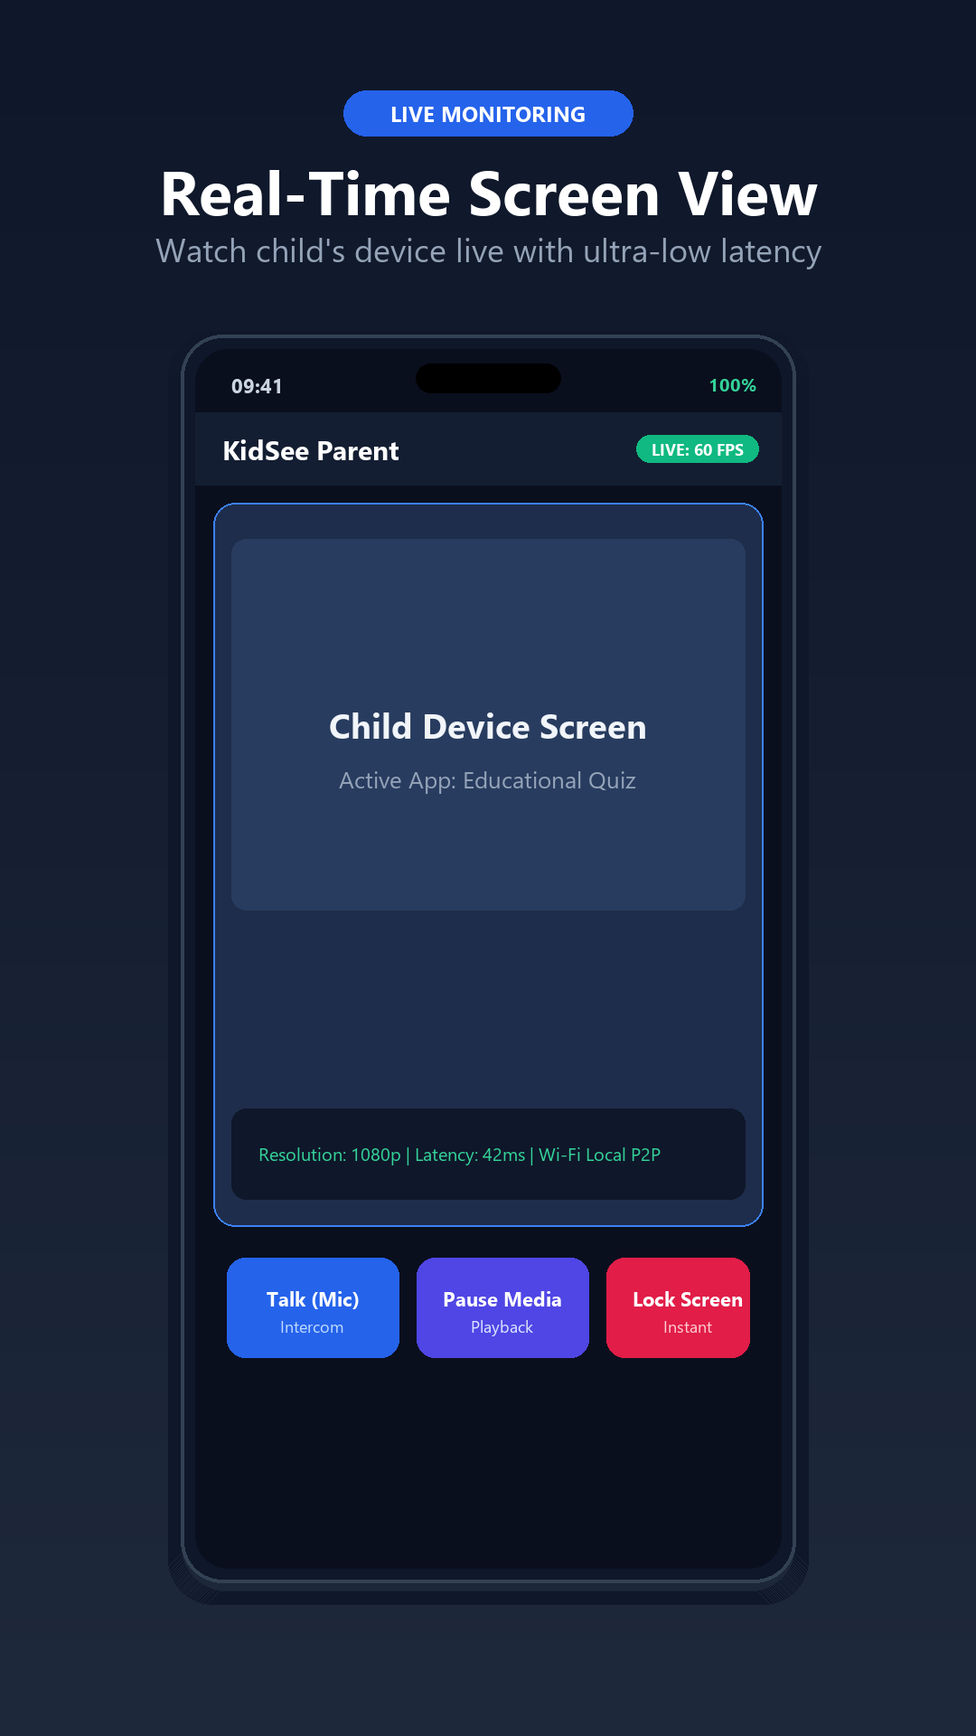
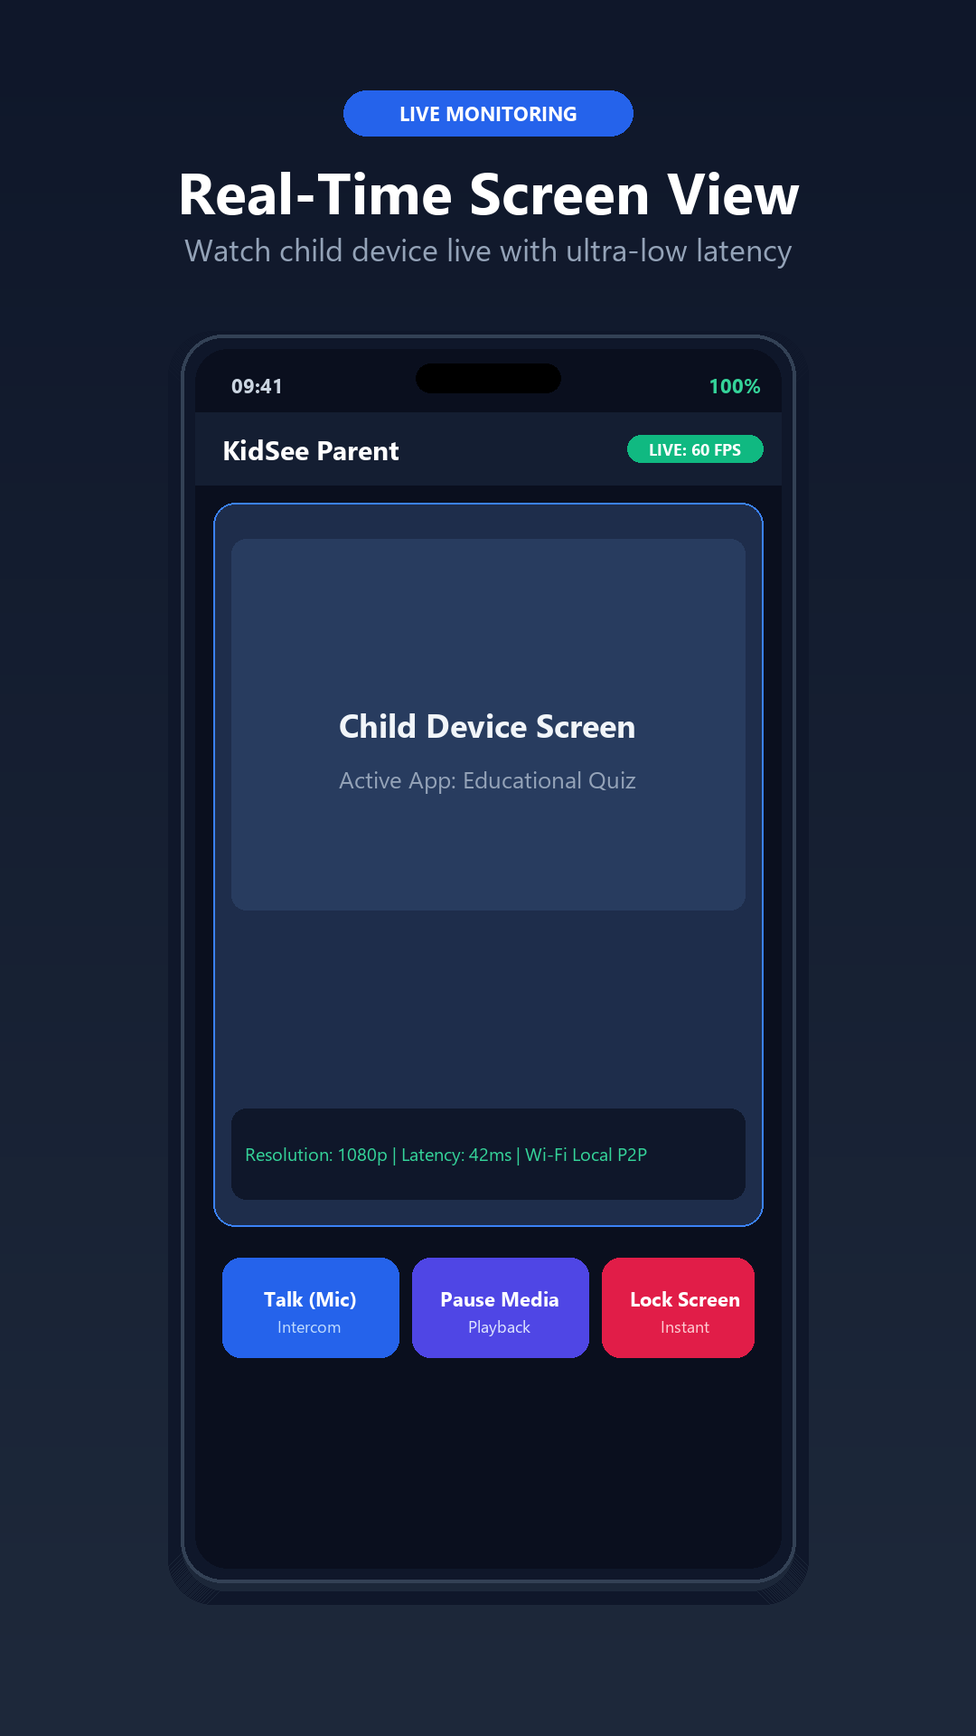
Add localized EN and RU feature graphics and screenshots

diff --git a/scripts/generate_all_store_assets.py b/scripts/generate_all_store_assets.py
@@ -1,0 +1,378 @@
+import os
+from PIL import Image, ImageDraw, ImageFont
+
+BASE_DIR = r"C:\WORK\KidSee\google_play_assets"
+EN_DIR = os.path.join(BASE_DIR, "en")
+RU_DIR = os.path.join(BASE_DIR, "ru")
+os.makedirs(EN_DIR, exist_ok=True)
+os.makedirs(RU_DIR, exist_ok=True)
+
+FONT_BOLD = r"C:\Windows\Fonts\segoeuib.ttf"
+FONT_REGULAR = r"C:\Windows\Fonts\segoeui.ttf"
+
+# ==================== 1. GENERATE ICON (512x512) ====================
+def generate_icon():
+    img_icon = Image.new('RGBA', (512, 512), (0, 0, 0, 0))
+    draw = ImageDraw.Draw(img_icon)
+    draw.ellipse([16, 16, 496, 496], fill=(51, 153, 255, 255))
+    # Wheels
+    draw.ellipse([130, 360, 205, 435], fill=(34, 38, 42, 255))
+    draw.ellipse([152, 382, 183, 413], fill=(255, 255, 255, 255))
+    draw.ellipse([307, 360, 382, 435], fill=(34, 38, 42, 255))
+    draw.ellipse([329, 382, 360, 413], fill=(255, 255, 255, 255))
+    # Body
+    draw.rounded_rectangle([96, 96, 416, 384], radius=110, fill=(255, 255, 255, 255))
+    # Visor
+    draw.rounded_rectangle([126, 126, 386, 276], radius=70, fill=(51, 153, 255, 255))
+    # Pupil
+    draw.ellipse([206, 151, 306, 251], fill=(22, 25, 29, 255))
+    draw.ellipse([225, 170, 255, 200], fill=(255, 255, 255, 255))
+    # Smile
+    draw.arc([200, 290, 312, 345], start=10, end=170, fill=(51, 153, 255, 255), width=12)
+    
+    icon_path = os.path.join(BASE_DIR, "icon_512.png")
+    img_icon.save(icon_path, 'PNG')
+    return img_icon
+
+# ==================== 2. FEATURE GRAPHIC (1024x500) ====================
+def generate_feature_graphic(icon_img, lang="en", out_path=""):
+    img = Image.new('RGB', (1024, 500), (246, 248, 252))
+    draw = ImageDraw.Draw(img)
+    
+    # Soft background gradient
+    for x in range(1024):
+        factor = x / 1024.0
+        r = int(240 * (1 - factor) + 215 * factor)
+        g = int(245 * (1 - factor) + 230 * factor)
+        b = int(255 * (1 - factor) + 252 * factor)
+        draw.line([(x, 0), (x, 500)], fill=(r, g, b))
+        
+    # Decorative circles
+    draw.ellipse([640, -60, 1140, 440], fill=(225, 240, 255))
+    draw.ellipse([730, 90, 1070, 430], fill=(200, 228, 255))
+    
+    # Mascot
+    mascot_small = icon_img.resize((320, 320), Image.Resampling.LANCZOS)
+    img.paste(mascot_small, (650, 90), mascot_small)
+    
+    font_large = ImageFont.truetype(FONT_BOLD, 64)
+    font_sub = ImageFont.truetype(FONT_REGULAR, 25)
+    font_sub_bold = ImageFont.truetype(FONT_BOLD, 25)
+    font_tag = ImageFont.truetype(FONT_BOLD, 17)
+    
+    if lang == "en":
+        tag_text = "PARENTAL CONTROL"
+        bullets = [
+            "• Live child screen streaming (up to 60 FPS)",
+            "• Remote media playback & volume control",
+            "• Instant audio intercom & screen lock",
+            "• 100% private: direct local Wi-Fi (no cloud)"
+        ]
+        tag_w = 260
+    else:
+        tag_text = "РОДИТЕЛЬСКИЙ КОНТРОЛЬ"
+        bullets = [
+            "• Живая трансляция экрана ребёнка (до 60 FPS)",
+            "• Удалённое управление медиа и звуком",
+            "• Мгновенная рация и блокировка экрана",
+            "• 100% приватность: прямое Wi-Fi подключение"
+        ]
+        tag_w = 320
+        
+    draw.rounded_rectangle([70, 75, 70 + tag_w, 115], radius=16, fill=(37, 99, 235))
+    draw.text((70 + tag_w // 2, 95), tag_text, fill=(255, 255, 255), font=font_tag, anchor="mm")
+    
+    draw.text((70, 140), "KidSee", fill=(15, 23, 42), font=font_large)
+    
+    y = 235
+    for i, b in enumerate(bullets):
+        fnt = font_sub_bold if i == 3 else font_sub
+        clr = (13, 148, 136) if i == 3 else (51, 65, 85)
+        draw.text((70, y), b, fill=clr, font=fnt)
+        y += 42
+        
+    img.save(out_path, 'PNG')
+    print(f"Generated feature graphic: {out_path}")
+
+# ==================== 3. PHONE SCREENSHOTS (1080x1920) ====================
+def create_gradient(w, h, top_color, bottom_color):
+    base = Image.new("RGB", (w, h), top_color)
+    top_r, top_g, top_b = top_color
+    bot_r, bot_g, bot_b = bottom_color
+    for y in range(h):
+        factor = y / float(h)
+        r = int(top_r + (bot_r - top_r) * factor)
+        g = int(top_g + (bot_g - top_g) * factor)
+        b = int(top_b + (bot_b - top_b) * factor)
+        draw = ImageDraw.Draw(base)
+        draw.line([(0, y), (w, y)], fill=(r, g, b))
+    return base
+
+def draw_phone_mockup(canvas, x, y, w, h, content_drawer):
+    draw = ImageDraw.Draw(canvas)
+    for i in range(15):
+        draw.rounded_rectangle([x - i, y - i + 10, x + w + i, y + h + i + 10], radius=50, outline=(15, 23, 42))
+    draw.rounded_rectangle([x, y, x + w, y + h], radius=46, fill=(15, 23, 42), outline=(51, 65, 85), width=4)
+    screen_padding = 16
+    sx = x + screen_padding
+    sy = y + screen_padding
+    sw = w - 2 * screen_padding
+    sh = h - 2 * screen_padding
+    draw.rounded_rectangle([sx, sy, sx + sw, sy + sh], radius=36, fill=(10, 15, 30))
+    # Notch
+    notch_w = 160
+    notch_h = 32
+    nx = sx + (sw - notch_w) // 2
+    ny = sy + 16
+    draw.rounded_rectangle([nx, ny, nx + notch_w, ny + notch_h], radius=16, fill=(0, 0, 0))
+    content_drawer(canvas, sx, sy, sw, sh)
+
+def generate_screenshots(lang="en", target_dir=""):
+    W, H = 1080, 1920
+    phone_w, phone_h = 680, 1380
+    px = (W - phone_w) // 2
+    py = 370
+    
+    font_title = ImageFont.truetype(FONT_BOLD, 64)
+    font_subtitle = ImageFont.truetype(FONT_REGULAR, 34)
+    font_tag = ImageFont.truetype(FONT_BOLD, 22)
+    font_clock = ImageFont.truetype(FONT_BOLD, 22)
+    font_card_t = ImageFont.truetype(FONT_BOLD, 30)
+    font_badge = ImageFont.truetype(FONT_BOLD, 18)
+    
+    # ------------------ S1: LIVE SCREEN ------------------
+    img1 = create_gradient(W, H, (15, 23, 42), (30, 41, 59))
+    d1 = ImageDraw.Draw(img1)
+    
+    if lang == "en":
+        t_tag, t_main, t_sub = "LIVE MONITORING", "Real-Time Screen View", "Watch child device live with ultra-low latency"
+        app_bar, live_bdg = "KidSee Parent", "LIVE: 60 FPS"
+        scr_t, scr_sub = "Child Device Screen", "Active App: Educational Quiz"
+        stat_t = "Resolution: 1080p | Latency: 42ms | Wi-Fi Local P2P"
+        btn1_t, btn1_s = "Talk (Mic)", "Intercom"
+        btn2_t, btn2_s = "Pause Media", "Playback"
+        btn3_t, btn3_s = "Lock Screen", "Instant"
+        tag_w = 320
+    else:
+        t_tag, t_main, t_sub = "ПРЯМАЯ ТРАНСЛЯЦИЯ", "Просмотр экрана онлайн", "Наблюдайте за экраном ребёнка в 60 FPS"
+        app_bar, live_bdg = "KidSee Родитель", "ОНЛАЙН: 60 FPS"
+        scr_t, scr_sub = "Экран устройства ребёнка", "Активно: Обучающие уроки"
+        stat_t = "Разрешение: 1080p | Задержка: 42мс | Wi-Fi P2P"
+        btn1_t, btn1_s = "Рация", "Голос"
+        btn2_t, btn2_s = "Пауза", "Медиа"
+        btn3_t, btn3_s = "Блок", "Экран"
+        tag_w = 360
+
+    d1.rounded_rectangle([W//2 - tag_w//2, 100, W//2 + tag_w//2, 150], radius=25, fill=(37, 99, 235))
+    d1.text((W//2, 125), t_tag, font=font_tag, fill=(255, 255, 255), anchor="mm")
+    d1.text((W//2, 210), t_main, font=font_title, fill=(255, 255, 255), anchor="mm")
+    d1.text((W//2, 275), t_sub, font=font_subtitle, fill=(148, 163, 184), anchor="mm")
+    
+    def content_1(cv, sx, sy, sw, sh):
+        cdraw = ImageDraw.Draw(cv)
+        cdraw.text((sx + 40, sy + 25), "09:41", font=font_clock, fill=(203, 213, 225))
+        cdraw.text((sx + sw - 80, sy + 25), "100%", font=font_clock, fill=(52, 211, 153))
+        cdraw.rectangle([sx, sy + 70, sx + sw, sy + 150], fill=(20, 30, 50))
+        cdraw.text((sx + 30, sy + 110), app_bar, font=font_card_t, fill=(255, 255, 255), anchor="lm")
+        cdraw.rounded_rectangle([sx + sw - 170, sy + 95, sx + sw - 20, sy + 125], radius=15, fill=(16, 185, 129))
+        cdraw.text((sx + sw - 95, sy + 110), live_bdg, font=font_badge, fill=(255, 255, 255), anchor="mm")
+        
+        stream_y = sy + 170
+        stream_h = 800
+        cdraw.rounded_rectangle([sx + 20, stream_y, sx + sw - 20, stream_y + stream_h], radius=24, fill=(30, 45, 75), outline=(59, 130, 246), width=2)
+        cdraw.rounded_rectangle([sx + 40, stream_y + 40, sx + sw - 40, stream_y + 450], radius=16, fill=(40, 60, 95))
+        cdraw.text((sx + sw//2, stream_y + 245), scr_t, font=ImageFont.truetype(FONT_BOLD, 36), fill=(241, 245, 249), anchor="mm")
+        cdraw.text((sx + sw//2, stream_y + 305), scr_sub, font=ImageFont.truetype(FONT_REGULAR, 26), fill=(148, 163, 184), anchor="mm")
+        
+        cdraw.rounded_rectangle([sx + 40, stream_y + stream_h - 130, sx + sw - 40, stream_y + stream_h - 30], radius=16, fill=(15, 23, 42))
+        cdraw.text((sx + 55, stream_y + stream_h - 80), stat_t, font=ImageFont.truetype(FONT_REGULAR, 20), fill=(52, 211, 153), anchor="lm")
+        
+        btn_y = stream_y + stream_h + 35
+        # 3 action buttons
+        cdraw.rounded_rectangle([sx + 30, btn_y, sx + 225, btn_y + 110], radius=20, fill=(37, 99, 235))
+        cdraw.text((sx + 127, btn_y + 45), btn1_t, font=ImageFont.truetype(FONT_BOLD, 22), fill=(255, 255, 255), anchor="mm")
+        cdraw.text((sx + 127, btn_y + 75), btn1_s, font=ImageFont.truetype(FONT_REGULAR, 18), fill=(191, 219, 254), anchor="mm")
+        
+        cdraw.rounded_rectangle([sx + 240, btn_y, sx + 435, btn_y + 110], radius=20, fill=(79, 70, 229))
+        cdraw.text((sx + 337, btn_y + 45), btn2_t, font=ImageFont.truetype(FONT_BOLD, 22), fill=(255, 255, 255), anchor="mm")
+        cdraw.text((sx + 337, btn_y + 75), btn2_s, font=ImageFont.truetype(FONT_REGULAR, 18), fill=(224, 231, 255), anchor="mm")
+        
+        cdraw.rounded_rectangle([sx + 450, btn_y, sx + sw - 30, btn_y + 110], radius=20, fill=(225, 29, 72))
+        cdraw.text((sx + 542, btn_y + 45), btn3_t, font=ImageFont.truetype(FONT_BOLD, 22), fill=(255, 255, 255), anchor="mm")
+        cdraw.text((sx + 542, btn_y + 75), btn3_s, font=ImageFont.truetype(FONT_REGULAR, 18), fill=(254, 205, 211), anchor="mm")
+
+    draw_phone_mockup(img1, px, py, phone_w, phone_h, content_1)
+    img1.save(os.path.join(target_dir, "screenshot_1.png"), "PNG")
+    
+    # ------------------ S2: MEDIA CONTROL ------------------
+    img2 = create_gradient(W, H, (15, 23, 42), (40, 20, 60))
+    d2 = ImageDraw.Draw(img2)
+    
+    if lang == "en":
+        t_tag, t_main, t_sub = "REMOTE CONTROL", "Control Media & Sound", "Remotely pause video, limit volume, or mute audio"
+        card_sub, now_pl, dur_t = "NOW PLAYING ON CHILD DEVICE", "YouTube / Cartoons", "Session Duration: 45 min"
+        pause_btn = "PAUSE VIDEO"
+        vol_t, mute_t = "Device Volume Limit", "Mute All Sound Remotely"
+        tag_w = 320
+    else:
+        t_tag, t_main, t_sub = "УДАЛЕННЫЙ КОНТРОЛЬ", "Управление медиа и звуком", "Ставьте видео на паузу и управляйте громкостью"
+        card_sub, now_pl, dur_t = "СЕЙЧАС ВОСПРОИЗВОДИТСЯ", "YouTube / Мультфильмы", "Длительность: 45 мин"
+        pause_btn = "ПАУЗА ВИДЕО"
+        vol_t, mute_t = "Ограничение громкости", "Отключить весь звук"
+        tag_w = 380
+
+    d2.rounded_rectangle([W//2 - tag_w//2, 100, W//2 + tag_w//2, 150], radius=25, fill=(147, 51, 234))
+    d2.text((W//2, 125), t_tag, font=font_tag, fill=(255, 255, 255), anchor="mm")
+    d2.text((W//2, 210), t_main, font=font_title, fill=(255, 255, 255), anchor="mm")
+    d2.text((W//2, 275), t_sub, font=font_subtitle, fill=(216, 180, 254), anchor="mm")
+    
+    def content_2(cv, sx, sy, sw, sh):
+        cdraw = ImageDraw.Draw(cv)
+        cdraw.text((sx + 40, sy + 25), "09:41", font=font_clock, fill=(203, 213, 225))
+        cdraw.rectangle([sx, sy + 70, sx + sw, sy + 150], fill=(25, 20, 45))
+        cdraw.text((sx + 30, sy + 110), "KidSee Media" if lang == "en" else "KidSee Медиа", font=font_card_t, fill=(255, 255, 255), anchor="lm")
+        
+        card_y = sy + 200
+        cdraw.rounded_rectangle([sx + 30, card_y, sx + sw - 30, card_y + 400], radius=24, fill=(45, 30, 75), outline=(168, 85, 247), width=2)
+        cdraw.text((sx + sw//2, card_y + 60), card_sub, font=ImageFont.truetype(FONT_BOLD, 20), fill=(216, 180, 254), anchor="mm")
+        cdraw.text((sx + sw//2, card_y + 130), now_pl, font=ImageFont.truetype(FONT_BOLD, 36), fill=(255, 255, 255), anchor="mm")
+        cdraw.text((sx + sw//2, card_y + 185), dur_t, font=ImageFont.truetype(FONT_REGULAR, 24), fill=(192, 132, 252), anchor="mm")
+        
+        cdraw.rounded_rectangle([sx + sw//2 - 140, card_y + 250, sx + sw//2 + 140, card_y + 350], radius=30, fill=(168, 85, 247))
+        cdraw.text((sx + sw//2, card_y + 300), pause_btn, font=ImageFont.truetype(FONT_BOLD, 26), fill=(255, 255, 255), anchor="mm")
+        
+        vcard_y = card_y + 430
+        cdraw.rounded_rectangle([sx + 30, vcard_y, sx + sw - 30, vcard_y + 320], radius=24, fill=(35, 25, 60))
+        cdraw.text((sx + 60, vcard_y + 55), vol_t, font=ImageFont.truetype(FONT_BOLD, 26), fill=(255, 255, 255), anchor="lm")
+        cdraw.text((sx + sw - 60, vcard_y + 55), "40%", font=ImageFont.truetype(FONT_BOLD, 26), fill=(168, 85, 247), anchor="rm")
+        
+        cdraw.rounded_rectangle([sx + 60, vcard_y + 110, sx + sw - 60, vcard_y + 130], radius=10, fill=(75, 60, 100))
+        cdraw.rounded_rectangle([sx + 60, vcard_y + 110, sx + 280, vcard_y + 130], radius=10, fill=(168, 85, 247))
+        cdraw.ellipse([sx + 265, vcard_y + 100, sx + 295, vcard_y + 140], fill=(255, 255, 255))
+        
+        cdraw.rounded_rectangle([sx + 60, vcard_y + 180, sx + sw - 60, vcard_y + 270], radius=16, fill=(50, 35, 80))
+        cdraw.text((sx + 90, vcard_y + 225), mute_t, font=ImageFont.truetype(FONT_BOLD, 24), fill=(255, 255, 255), anchor="lm")
+        cdraw.rounded_rectangle([sx + sw - 160, vcard_y + 205, sx + sw - 90, vcard_y + 245], radius=20, fill=(16, 185, 129))
+        cdraw.text((sx + sw - 125, vcard_y + 225), "ВКЛ" if lang == "ru" else "ON", font=ImageFont.truetype(FONT_BOLD, 18), fill=(255, 255, 255), anchor="mm")
+
+    draw_phone_mockup(img2, px, py, phone_w, phone_h, content_2)
+    img2.save(os.path.join(target_dir, "screenshot_2.png"), "PNG")
+
+    # ------------------ S3: INSTANT SCREEN LOCK ------------------
+    img3 = create_gradient(W, H, (15, 23, 42), (50, 20, 25))
+    d3 = ImageDraw.Draw(img3)
+    
+    if lang == "en":
+        t_tag, t_main, t_sub = "FOCUS & SAFETY", "Instant Screen Lock", "Pause distractions for homework, dinner, or bedtime"
+        shld_t, shld_s = "LOCKED", "FOCUS MODE"
+        dev_t, dev_s = "Child Device Is Paused", "Screen interaction disabled by parent"
+        tim_t, unlk_btn = "Lock Duration Remaining", "UNLOCK DEVICE NOW"
+        tag_w = 320
+    else:
+        t_tag, t_main, t_sub = "ФОКУС И ОТДЫХ", "Мгновенная блокировка", "Сделайте паузу для уроков, ужина или сна"
+        shld_t, shld_s = "БЛОКИРОВКА", "РЕЖИМ ФОКУСА"
+        dev_t, dev_s = "Устройство на паузе", "Экран отключён родителем"
+        tim_t, unlk_btn = "Осталось времени", "РАЗБЛОКИРОВАТЬ СЕЙЧАС"
+        tag_w = 340
+
+    d3.rounded_rectangle([W//2 - tag_w//2, 100, W//2 + tag_w//2, 150], radius=25, fill=(225, 29, 72))
+    d3.text((W//2, 125), t_tag, font=font_tag, fill=(255, 255, 255), anchor="mm")
+    d3.text((W//2, 210), t_main, font=font_title, fill=(255, 255, 255), anchor="mm")
+    d3.text((W//2, 275), t_sub, font=font_subtitle, fill=(254, 205, 211), anchor="mm")
+    
+    def content_3(cv, sx, sy, sw, sh):
+        cdraw = ImageDraw.Draw(cv)
+        cdraw.text((sx + 40, sy + 25), "09:41", font=font_clock, fill=(203, 213, 225))
+        cdraw.rectangle([sx, sy + 70, sx + sw, sy + 150], fill=(45, 15, 20))
+        cdraw.text((sx + 30, sy + 110), "KidSee Lock" if lang == "en" else "KidSee Защита", font=font_card_t, fill=(255, 255, 255), anchor="lm")
+        
+        shield_cx = sx + sw // 2
+        shield_cy = sy + 380
+        cdraw.ellipse([shield_cx - 110, shield_cy - 110, shield_cx + 110, shield_cy + 110], fill=(225, 29, 72))
+        cdraw.text((shield_cx, shield_cy - 10), shld_t, font=ImageFont.truetype(FONT_BOLD, 28), fill=(255, 255, 255), anchor="mm")
+        cdraw.text((shield_cx, shield_cy + 30), shld_s, font=ImageFont.truetype(FONT_REGULAR, 20), fill=(254, 205, 211), anchor="mm")
+        
+        cdraw.text((shield_cx, sy + 560), dev_t, font=ImageFont.truetype(FONT_BOLD, 34), fill=(255, 255, 255), anchor="mm")
+        cdraw.text((shield_cx, sy + 610), dev_s, font=ImageFont.truetype(FONT_REGULAR, 24), fill=(244, 63, 94), anchor="mm")
+        
+        cdraw.rounded_rectangle([sx + 50, sy + 680, sx + sw - 50, sy + 820], radius=20, fill=(30, 15, 20), outline=(225, 29, 72), width=1)
+        cdraw.text((shield_cx, sy + 725), tim_t, font=ImageFont.truetype(FONT_REGULAR, 22), fill=(254, 205, 211), anchor="mm")
+        cdraw.text((shield_cx, sy + 775), "24 : 18", font=ImageFont.truetype(FONT_BOLD, 42), fill=(255, 255, 255), anchor="mm")
+        
+        cdraw.rounded_rectangle([sx + 50, sy + 860, sx + sw - 50, sy + 950], radius=20, fill=(16, 185, 129))
+        cdraw.text((shield_cx, sy + 905), unlk_btn, font=ImageFont.truetype(FONT_BOLD, 24), fill=(255, 255, 255), anchor="mm")
+
+    draw_phone_mockup(img3, px, py, phone_w, phone_h, content_3)
+    img3.save(os.path.join(target_dir, "screenshot_3.png"), "PNG")
+
+    # ------------------ S4: LOCAL P2P PRIVACY ------------------
+    img4 = create_gradient(W, H, (15, 23, 42), (10, 40, 45))
+    d4 = ImageDraw.Draw(img4)
+    
+    if lang == "en":
+        t_tag, t_main, t_sub = "PRIVATE & DIRECT", "100% Private Local Wi-Fi", "Direct device-to-device streaming. Zero cloud storage."
+        items = [
+            ("No External Cloud Servers", "Data never leaves your local Wi-Fi router"),
+            ("Direct P2P Encrypted Stream", "Safe and low latency device handshake"),
+            ("No Account Or Login Needed", "Instant connection via local QR code or PIN"),
+            ("Zero Advertising Trackers", "Strictly on-device local telemetry")
+        ]
+        b_tit, b_sub = "GDPR & COPPA Compliant", "Your family data stays completely in your hands"
+        tag_w = 320
+    else:
+        t_tag, t_main, t_sub = "ПРИВАТНОСТЬ И P2P", "100% локальная сеть Wi-Fi", "Прямая передача без внешних облачных серверов"
+        items = [
+            ("Без облачных серверов", "Данные не покидают домашний роутер"),
+            ("Прямое P2P шифрование", "Безопасная передача с минимальным пингом"),
+            ("Без аккаунтов и логинов", "Быстрое подключение по коду или QR"),
+            ("Без сторонней рекламы", "Исключительно локальная работа")
+        ]
+        b_tit, b_sub = "Полная безопасность семьи", "Видеопоток и звук остаются только у вас"
+        tag_w = 360
+
+    d4.rounded_rectangle([W//2 - tag_w//2, 100, W//2 + tag_w//2, 150], radius=25, fill=(13, 148, 136))
+    d4.text((W//2, 125), t_tag, font=font_tag, fill=(255, 255, 255), anchor="mm")
+    d4.text((W//2, 210), t_main, font=font_title, fill=(255, 255, 255), anchor="mm")
+    d4.text((W//2, 275), t_sub, font=font_subtitle, fill=(153, 246, 228), anchor="mm")
+    
+    def content_4(cv, sx, sy, sw, sh):
+        cdraw = ImageDraw.Draw(cv)
+        cdraw.text((sx + 40, sy + 25), "09:41", font=font_clock, fill=(203, 213, 225))
+        cdraw.rectangle([sx, sy + 70, sx + sw, sy + 150], fill=(15, 35, 40))
+        cdraw.text((sx + 30, sy + 110), "KidSee Privacy" if lang == "en" else "KidSee Приватность", font=font_card_t, fill=(255, 255, 255), anchor="lm")
+        
+        y_cursor = sy + 200
+        for title, desc in items:
+            cdraw.rounded_rectangle([sx + 30, y_cursor, sx + sw - 30, y_cursor + 130], radius=18, fill=(20, 45, 50), outline=(20, 184, 166), width=1)
+            cdraw.ellipse([sx + 55, y_cursor + 45, sx + 95, y_cursor + 85], fill=(20, 184, 166))
+            cdraw.text((sx + 75, y_cursor + 65), "V", font=ImageFont.truetype(FONT_BOLD, 20), fill=(255, 255, 255), anchor="mm")
+            
+            cdraw.text((sx + 120, y_cursor + 45), title, font=ImageFont.truetype(FONT_BOLD, 24), fill=(255, 255, 255), anchor="lm")
+            cdraw.text((sx + 120, y_cursor + 85), desc, font=ImageFont.truetype(FONT_REGULAR, 19), fill=(153, 246, 228), anchor="lm")
+            y_cursor += 155
+            
+        cdraw.rounded_rectangle([sx + 30, y_cursor + 30, sx + sw - 30, y_cursor + 180], radius=24, fill=(13, 148, 136))
+        cdraw.text((sx + sw//2, y_cursor + 80), b_tit, font=ImageFont.truetype(FONT_BOLD, 26), fill=(255, 255, 255), anchor="mm")
+        cdraw.text((sx + sw//2, y_cursor + 130), b_sub, font=ImageFont.truetype(FONT_REGULAR, 20), fill=(204, 251, 241), anchor="mm")
+
+    draw_phone_mockup(img4, px, py, phone_w, phone_h, content_4)
+    img4.save(os.path.join(target_dir, "screenshot_4.png"), "PNG")
+    print(f"Generated 4 screenshots for {lang} in {target_dir}")
+
+# EXECUTE ALL
+icon = generate_icon()
+
+# Generate Feature Graphics
+generate_feature_graphic(icon, "en", os.path.join(EN_DIR, "feature_graphic.png"))
+generate_feature_graphic(icon, "ru", os.path.join(RU_DIR, "feature_graphic.png"))
+# Also update root feature graphic to EN default (for en-US default store listing)
+generate_feature_graphic(icon, "en", os.path.join(BASE_DIR, "feature_graphic_1024x500.png"))
+generate_feature_graphic(icon, "ru", os.path.join(BASE_DIR, "feature_graphic_ru_1024x500.png"))
+
+# Generate Screenshots
+generate_screenshots("en", EN_DIR)
+generate_screenshots("ru", RU_DIR)
+# Update root screenshots to EN default
+generate_screenshots("en", BASE_DIR)
+
+print("ALL ASSETS GENERATED FOR BOTH EN AND RU!")
